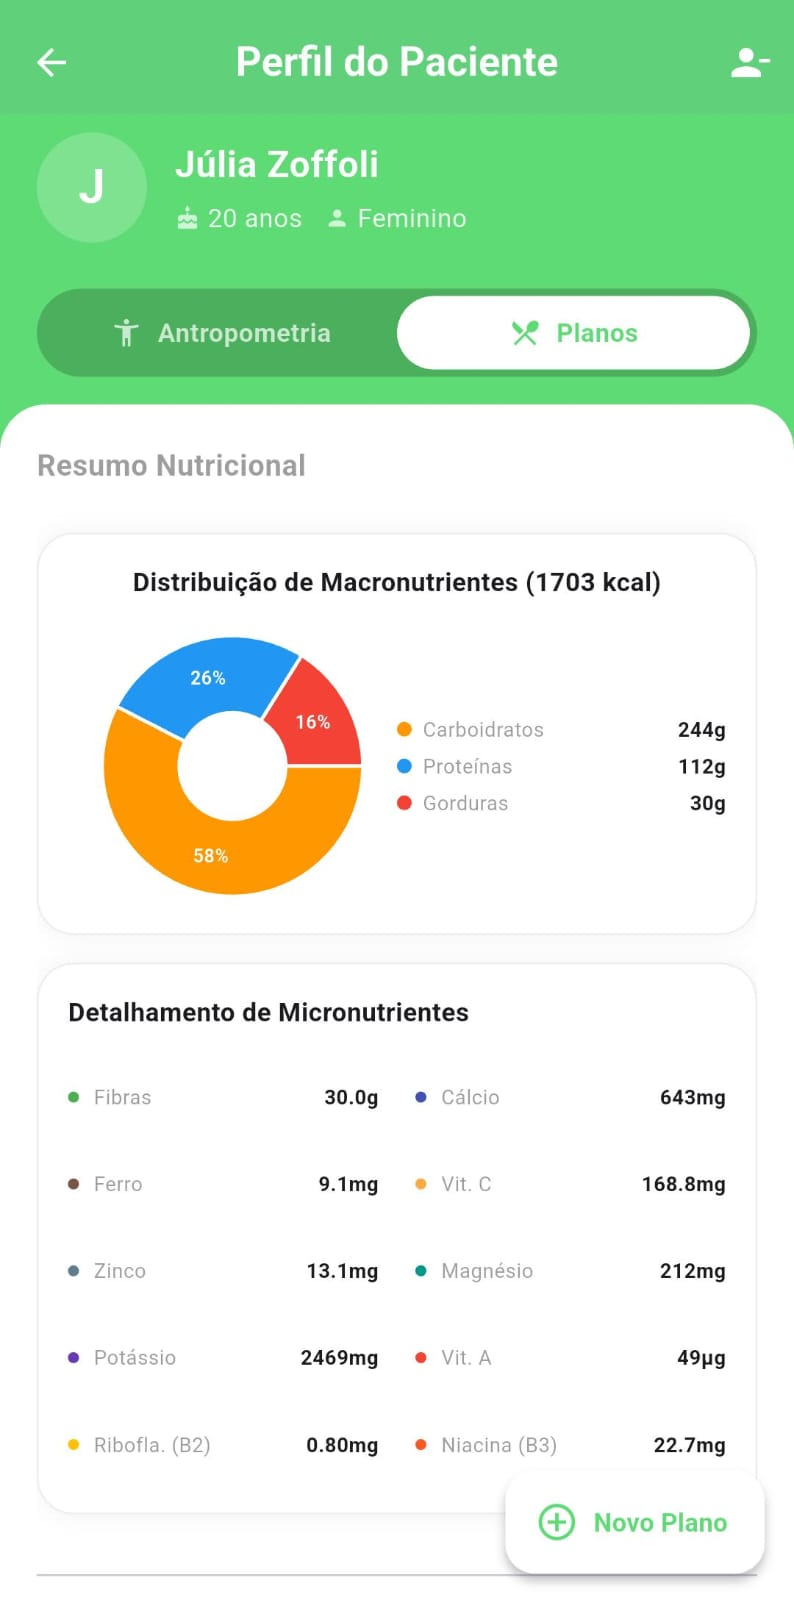
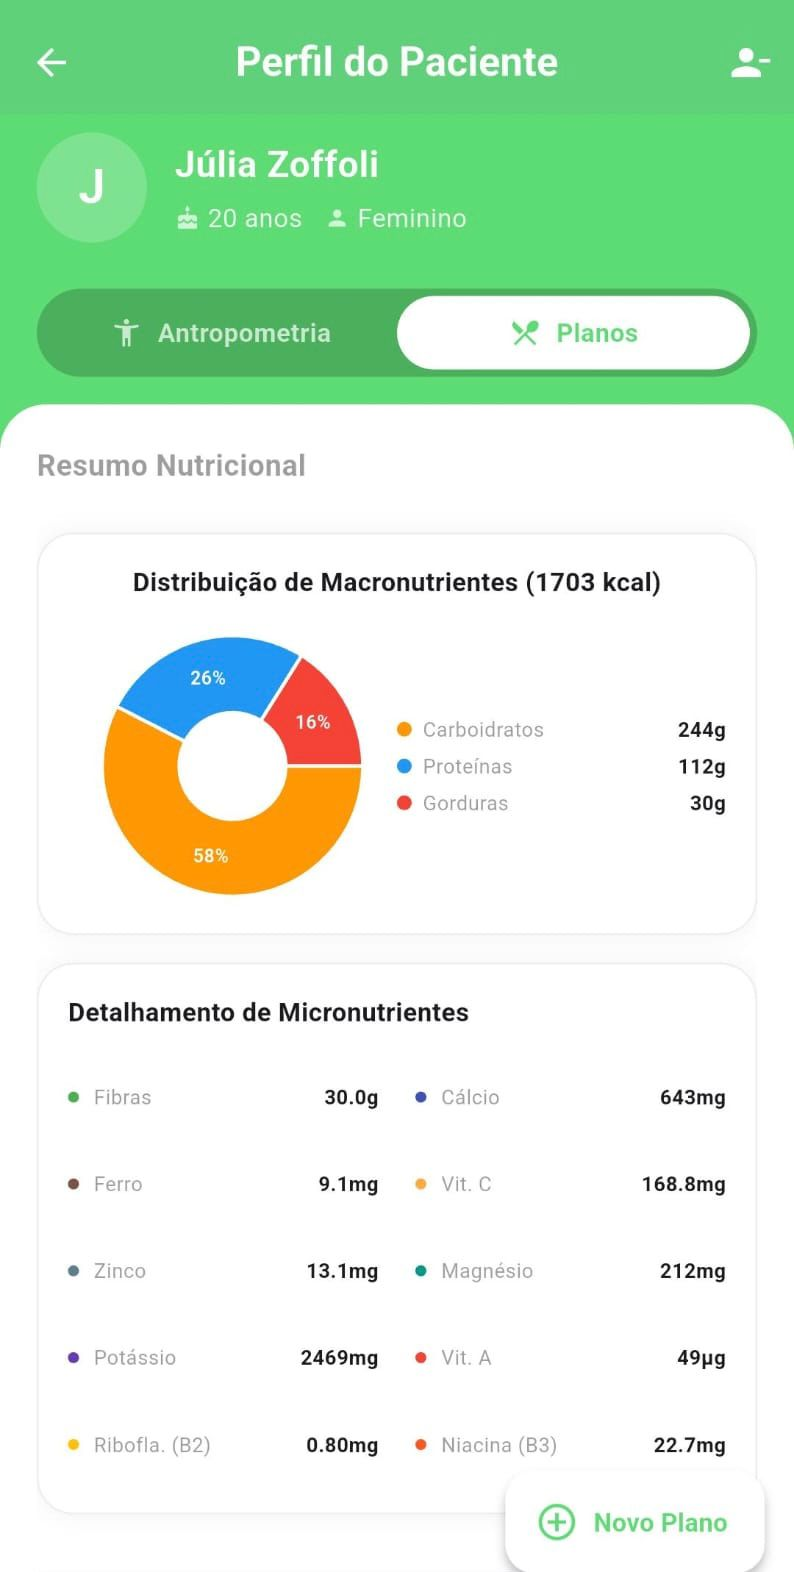
teste

diff --git a/README.md b/README.md
@@ -36,9 +36,9 @@ O projeto integra a **Tabela TACO** (Tabela Brasileira de Composição de Alimen
 
 ## 📸 Screenshots
 
-| Logo | Editor de Plano | Plano | Macros e Micronutrientes | Histórico de Avaliações |
-|:---:|:---:|:---:|:---:|:---:|
-| <img src="assets/logo_menor.png" width="200" height="400" alt="Logo" /> | <img src="assets/edicao_plano.jpeg" width="200" height="400" alt="EditorPlano" /> | <img src="assets/plano.jpeg" width="200" height="400" alt="Plano" /> | <img src="assets/macros_micros.jpeg" width="200" height="400" alt="MacrosMicros" /> | <img src="assets/historico_avalicoes.jpeg" width="200" height="400" alt="Antropometria" /> |
+| Logo | Plano | Macros e Micronutrientes | Histórico de Avaliações |
+|:---:|:---:|:---:|:---:|
+| <img src="assets/logo_menor.png" width="200" height="400" alt="Logo" /> | <img src="assets/Plano.jpeg" width="200" height="400" alt="EditorPlano" /> | <img src="assets/Macros_Micros.jpeg" width="200" height="400" alt="MacrosMicros" /> | <img src="assets/Historico.jpeg" width="200" height="400" alt="Antropometria" /> |
 
 ## 🚀 Como Rodar o Projeto
 
